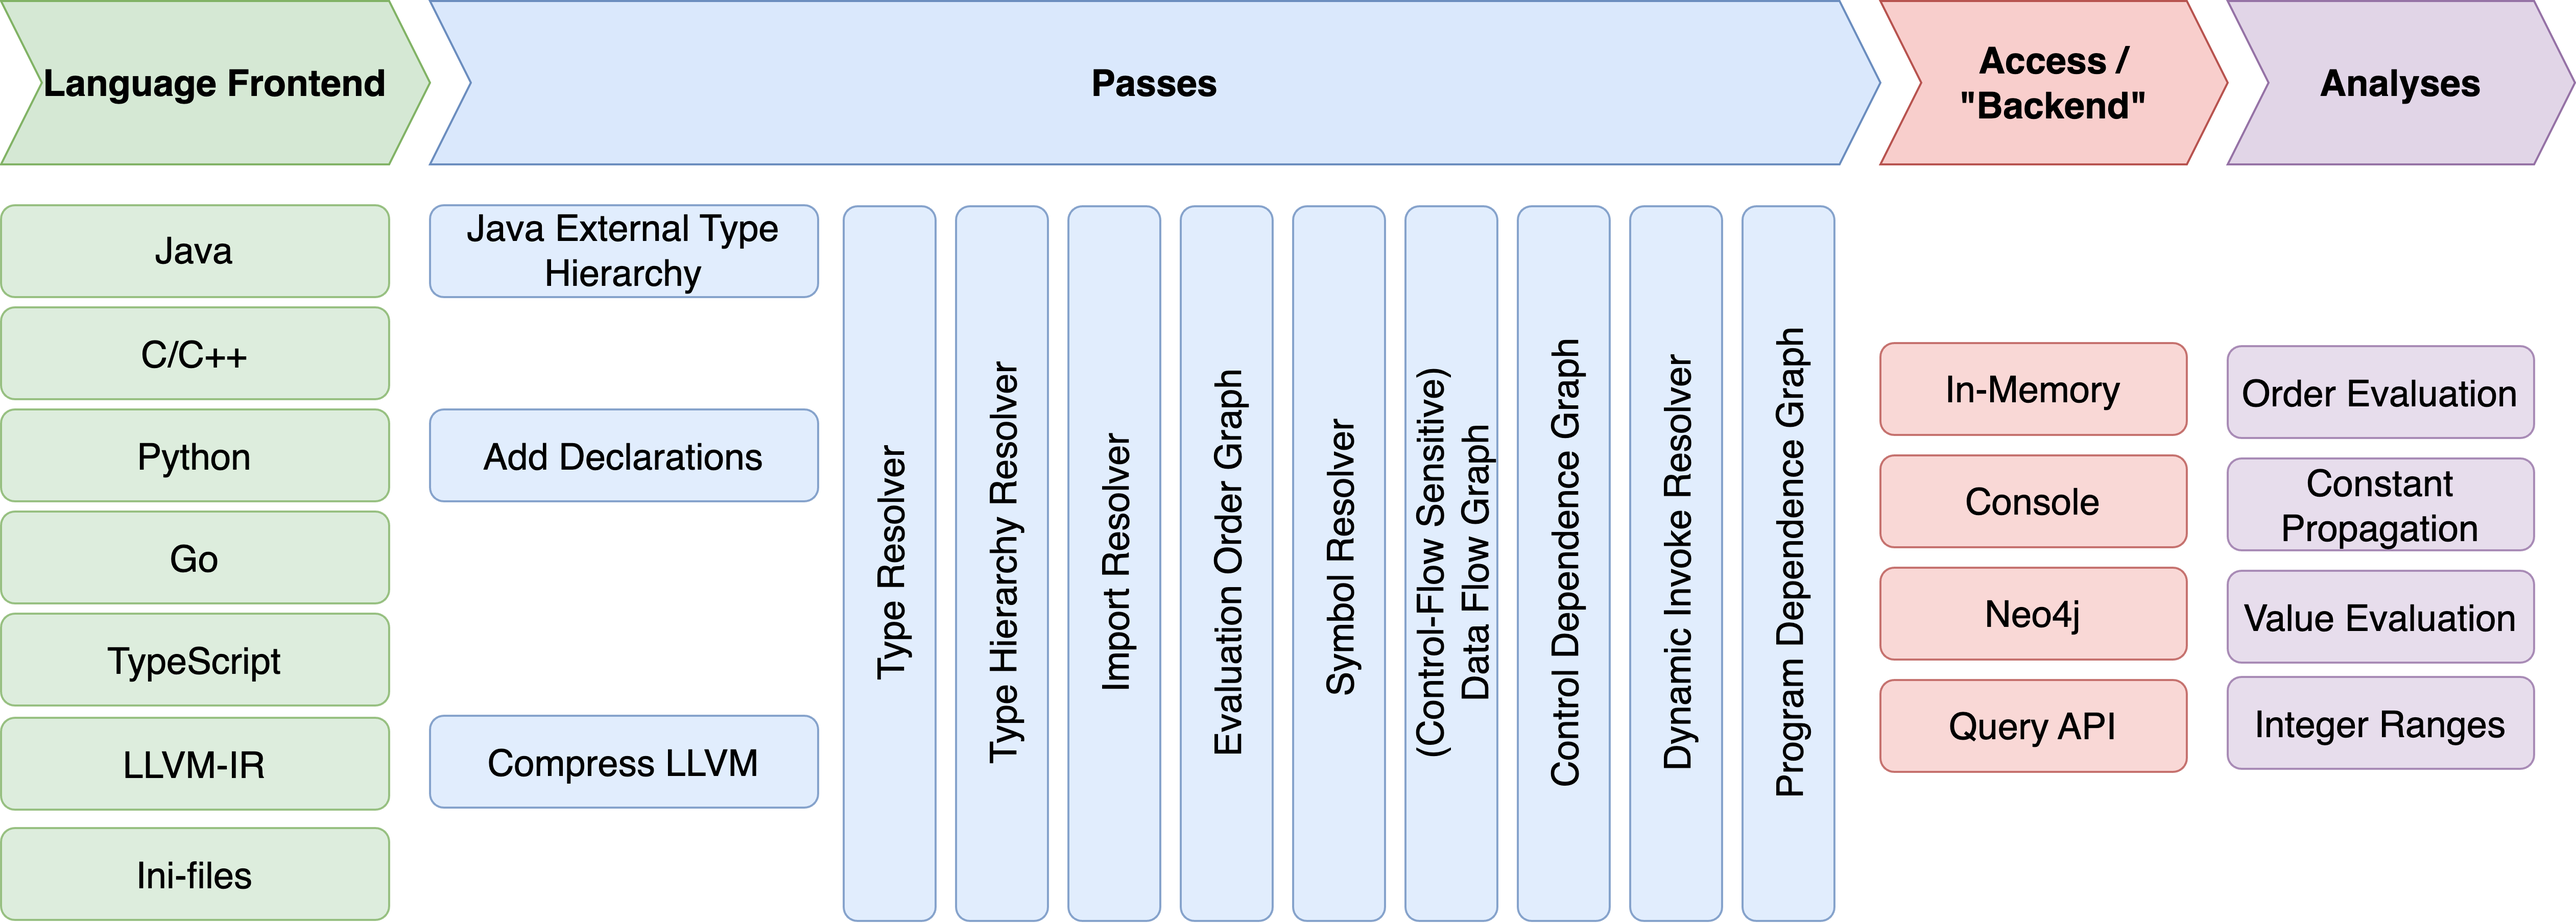
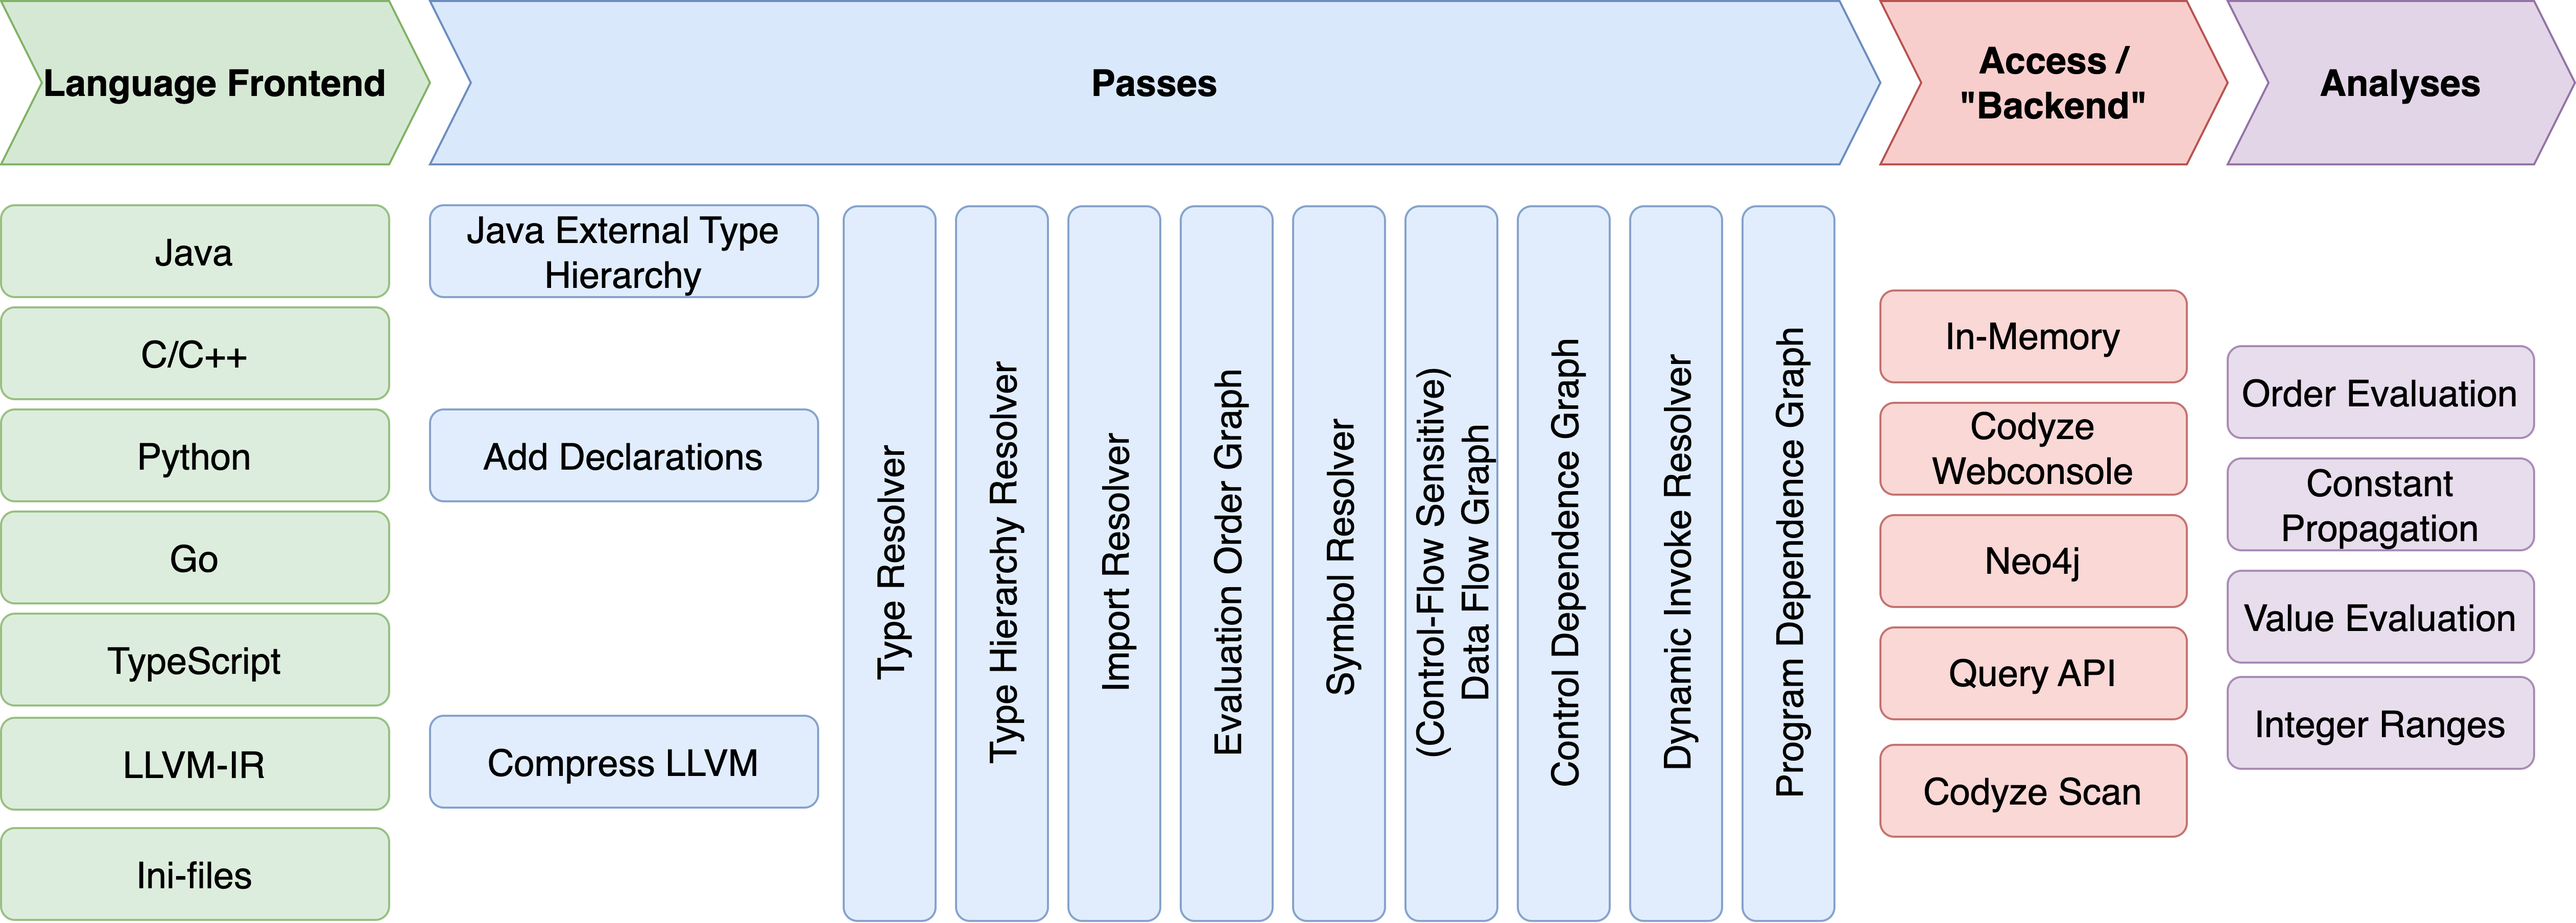
Rename CLI to console/webconsole

diff --git a/docs/docs/index.md b/docs/docs/index.md
@@ -70,7 +70,8 @@ programming language.
 
   * The graph can be exported to the graph database [neo4j](https://neo4j.com)
   * The CPG can be included into every project as a library
-  * We offer an interactive CLI ([Codyze](./GettingStarted/codyze.md)) to explore the graph
+  * We offer an interactive webconsole ([Codyze](./GettingStarted/codyze.md)) to explore the graph
+  * [Codyze](./GettingStarted/codyze.md) provides a standalone tool checking for compliance of your software artifacts with certain requirements
   * We provide an API for querying the graph for interesting properties
   </div>
 

diff --git a/docs/docs/GettingStarted/codyze.md b/docs/docs/GettingStarted/codyze.md
@@ -1,11 +1,11 @@
 ---
-title: "Using the Codyze CLI"
-linkTitle: "Using the Codyze CLI"
+title: "Using Codyze"
+linkTitle: "Using Codyze"
 no_list: true
 weight: 2
 date: 2025-03-17
 description: >
-  Using the Codyze CLI
+  Using Codyze
 ---
 
 # Codyze - The swiss army knife for the code property graph

diff --git a/docs/docs/GettingStarted/index.md b/docs/docs/GettingStarted/index.md
@@ -13,7 +13,7 @@ description: >
 
 The CPG can be used in different ways:
 
-* [Using the Codyze CLI](./codyze.md)
+* [Using Codyze](./codyze.md)
 * [As a library for Kotlin/Java](./library.md)
 * [With custom automated analyses using the Query API](./query.md)
 * [Via neo4j](./neo4j.md)

diff --git a/docs/docs/GettingStarted/neo4j.md b/docs/docs/GettingStarted/neo4j.md
@@ -1,6 +1,6 @@
 ---
-title: "Using the Interactive CLI"
-linkTitle: "Using the Interactive CLI"
+title: "Using neo4j"
+linkTitle: "Using neo4j"
 no_list: true
 weight: 2
 date: 2025-01-10
